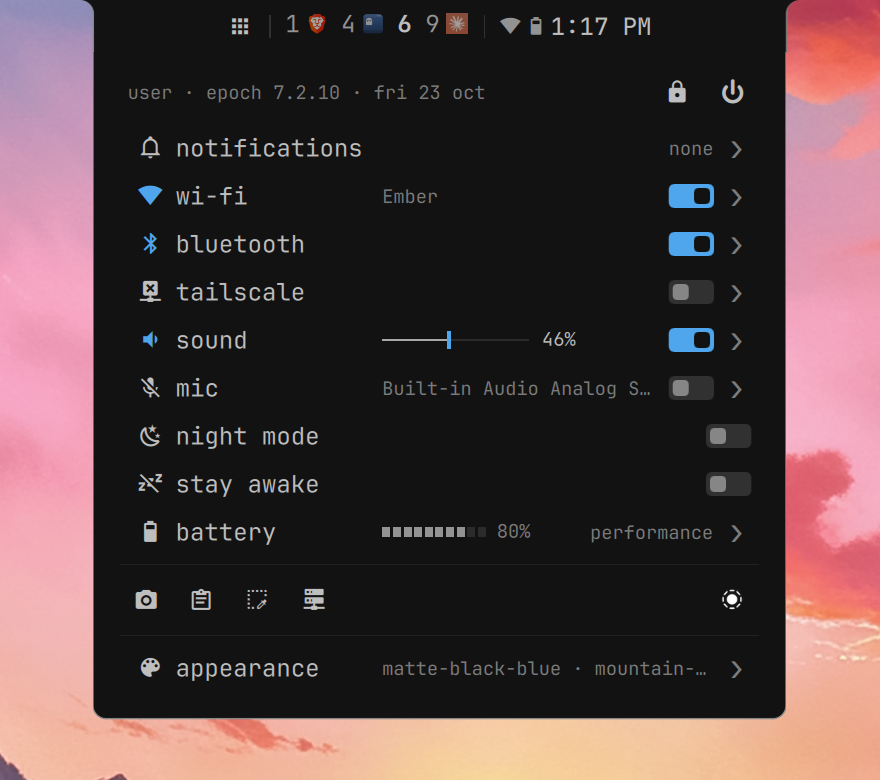
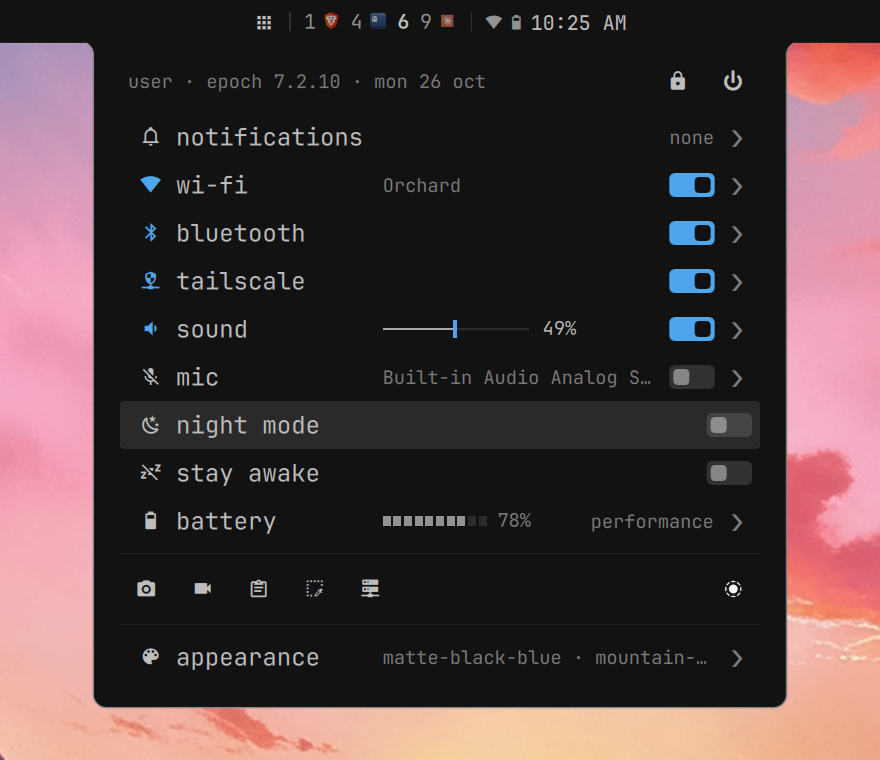
Fix transpaency

diff --git a/quickshell/theme/Config.qml b/quickshell/theme/Config.qml
@@ -85,14 +85,14 @@ Singleton {
     /* Misc */
     property string fontFamily: "JetBrainsMono Nerd Font Propo"
 
-    readonly property string defaultBarStyle: Quickshell.env("EPOCHSHELL_BAR_STYLE") || "full"
+    readonly property string defaultBarStyle: Quickshell.env("EPOCHSHELL_BAR_STYLE") || "centered"
     property string barStyle: defaultBarStyle
 
     property int barFloatingGap: 4
     property int barFloatingSideGap: 10
     readonly property bool barCentered: barStyle === "centered"
     property bool barLedge: true
-    property string barSpan: "pill"
+    property string barSpan: "full"
     readonly property bool barSpanFull: barCentered && barSpan === "full"
     readonly property bool barIsLedge: barCentered && (barLedge || barSpanFull)
     readonly property bool barCompact: settledStatusStyle === "dashboard"
@@ -462,7 +462,7 @@ Singleton {
         statusStyle = "individual";
         workspaceStyle = "minimap";
         barLedge = true;
-        barSpan = "pill";
+        barSpan = "full";
         workspaceIconLimit = 2;
         workspaceShowTitle = false;
         workspaceIconColor = "color";

diff --git a/quickshell/popups/pages/AppearancePage.qml b/quickshell/popups/pages/AppearancePage.qml
@@ -62,19 +62,12 @@ ColumnLayout {
         visible: T.Config.barCentered
         key: "span"
         Choice {
-            options: ["pill", "full"]
-            current: T.Config.barSpanFull ? "full" : "pill"
-            onPicked: v => page.choose("barSpan", v)
-        }
-    }
-    KeyRow {
-        visible: T.Config.barCentered && !T.Config.barSpanFull
-        key: "ledge"
-        toggles: true
-        onToggled: page.choose("barLedge", !T.Config.barLedge)
-        ToggleSwitch {
-            checked: T.Config.barLedge
-            onToggled: page.choose("barLedge", !T.Config.barLedge)
+            options: ["full", "ledge", "float"]
+            current: T.Config.barSpanFull ? "full" : T.Config.barLedge ? "ledge" : "float"
+            onPicked: v => {
+                page.choose("barSpan", v === "full" ? "full" : "pill");
+                if (v !== "full") page.choose("barLedge", v === "ledge");
+            }
         }
     }
     KeyRow {

diff --git a/README.md b/README.md
@@ -17,8 +17,9 @@ OSDs, lock screen, polkit prompt, and wallpaper. It stays out of the way until y
 The look is a single **readout**: monospace text, thin rules, one accent colour, rows that read
 top to bottom like an instrument panel. Every surface uses that grammar — the dashboard, the
 launcher, the settings card, the lock screen — so nothing feels bolted on. Panels grow out of the
-bar rather than floating over it, and the bar itself can sit full width, float, or hang from the top
-edge as a small centered ledge.
+bar rather than floating over it. By default the bar runs edge to edge with everything grouped in
+the centre; it can also hang from the top edge as a small ledge, float, or spread its items across
+a classic full-width bar.
 
 It is three projects that work as one:
 
@@ -37,10 +38,15 @@ the theme.
 
 ### The bar
 
-Five layouts, all set live from the Appearance card. From the top: **full**, **floating**,
-**floating with individual status icons**, **pill workspaces**, and the **centered ledge** used in
-these screenshots, which hangs from the top edge and widens to hold whatever opens out of it. Full
-width with individual icons is the default.
+All set live from the Appearance card. From the top:
+
+1. **Centered, full span** (the default, used in these screenshots). The bar runs edge to edge
+   with everything grouped in the middle, and panels and the launcher drop out of the centre.
+2. **Centered ledge.** Only the middle is drawn, hanging from the top edge and widening to hold
+   whatever opens out of it.
+3. **Centered pill.** The same group as a small floating pill.
+4. **Floating**, here with pill workspaces and one icon per status item.
+5. **Full**, the classic bar with its items spread to the edges.
 
 <p align="center"><img src="docs/screenshots/bars.png" alt="Bar layouts" width="100%"></p>
 
@@ -66,8 +72,8 @@ chevron opens a page in place.
 ### Launcher
 
 Applications, files, clipboard history, windows, a calculator, a command runner, and any custom
-menu you write: all one launcher, backed by EpochOxide's providers. On the ledge it drops out of
-the bar like the dashboard does; elsewhere it floats. A prefix jumps to a provider, and `;` lists
+menu you write: all one launcher, backed by EpochOxide's providers. On a centered bar it drops out
+of the bar like the dashboard does; elsewhere it floats. A prefix jumps to a provider, and `;` lists
 them all.
 
 <p align="center">
@@ -275,8 +281,8 @@ epochctl launcher open
 epochctl launcher toggle
 ```
 
-With the bar as a centered ledge the launcher drops out of the bar like the dashboard; otherwise,
-or with `launcherStyle = "floating"`, it is a card below the bar. Opening it closes any open
+With a centered bar (full span or ledge) the launcher drops out of the bar like the dashboard;
+otherwise, or with `launcherStyle = "floating"`, it is a card below the bar. Opening it closes any open
 panel, and opening a panel closes it.
 
 Provider prefixes come from EpochOxide itself: the launcher reads the `providers` response and
@@ -827,8 +833,8 @@ Derived bar values such as `barClockSize`, `barModuleHorizontalPadding`, and `ba
 ### Style Keys
 
 ```toml
-barStyle = "full"           # "full", "floating" or "centered"
-barSpan = "pill"            # centered only: "pill", or "full" for an edge-to-edge bar with the items centered
+barStyle = "centered"       # "centered", "full" or "floating"
+barSpan = "full"            # centered only: "full" for an edge-to-edge bar with the items centered, or "pill"
 barLedge = true             # centered pill only: hang from the top edge instead of floating
 statusStyle = "individual"  # "individual" icons, or "dashboard": one capsule opening quick settings
 panelStyle = "attached"     # "attached" (grown out of the bar) or "floating" cards
@@ -837,7 +843,7 @@ workspaceStyle = "minimap"  # "minimap", "pill", "plain" or "ledge"
 workspaceIcons = true
 workspaceIconLimit = 2      # ledge only: icons per workspace before "+n"
 workspaceHomes = ""         # ledge only: "app:workspace" pairs; an app elsewhere stays in colour
-launcherStyle = "attached"  # "attached" (drops out of a centered ledge) or "floating"
+launcherStyle = "attached"  # "attached" (drops out of a centered bar) or "floating"
 ```
 
 Every size, gap, alpha and duration in the shell is a named token in
